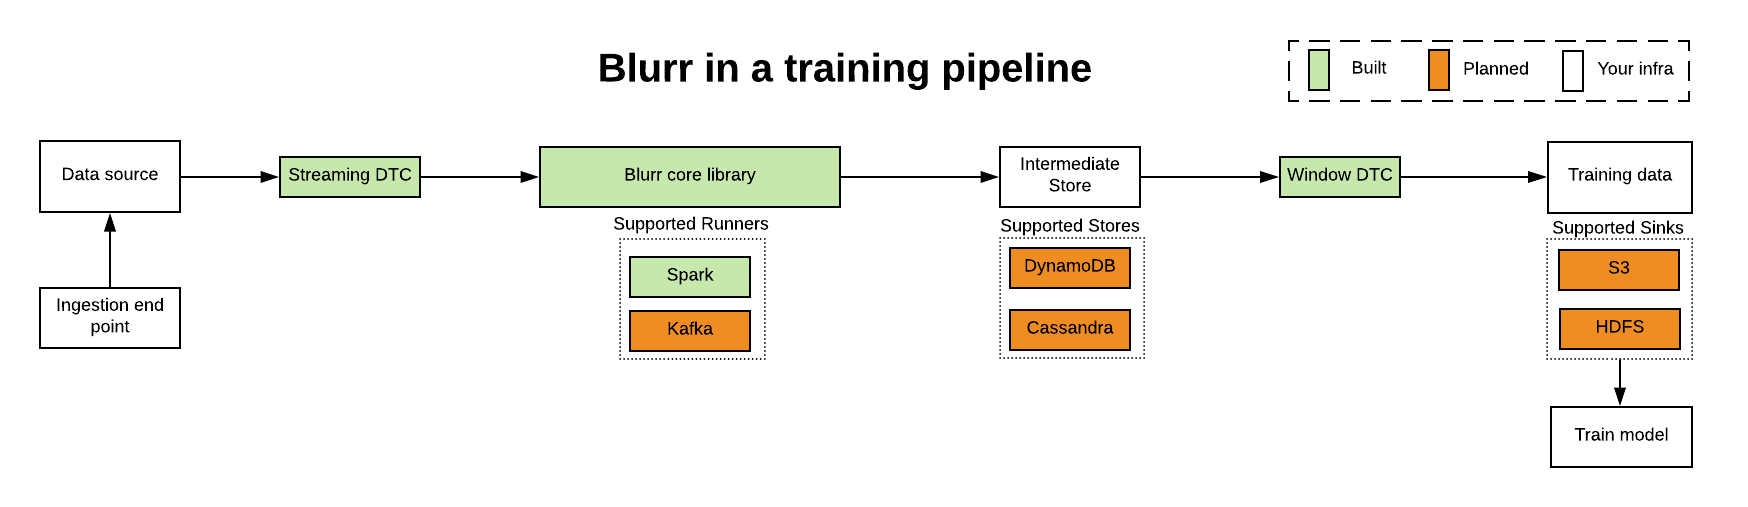
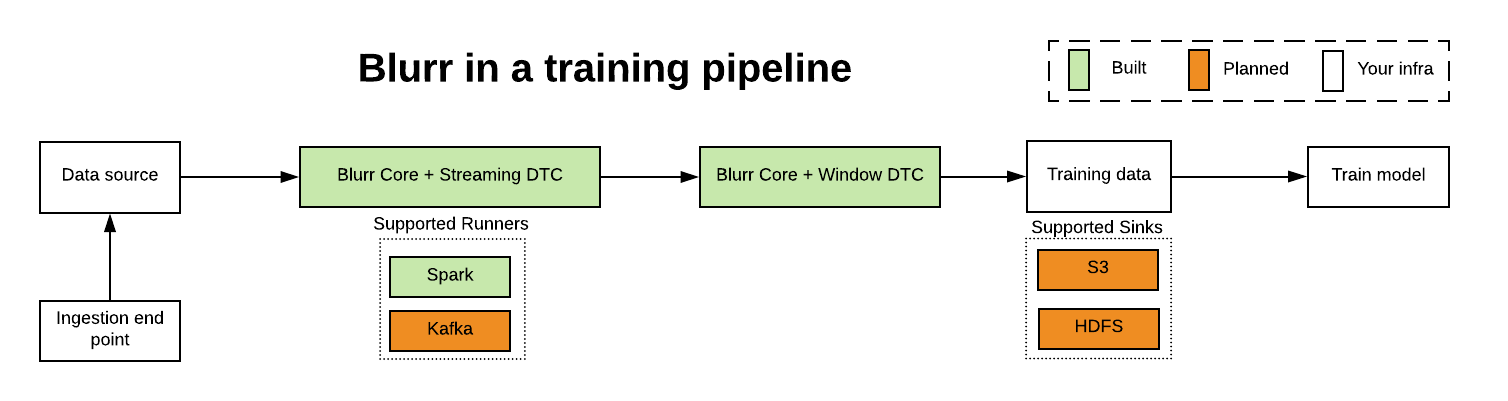
Addressed feedback on diagrams

diff --git a/README.md b/README.md
@@ -14,18 +14,15 @@ The DTC is a __data transform definition__ for structured data. The DTC encapsul
 
 ![Blurr Training](docs/images/blurr-in-training.png)
 
-This looks like any other ML training pipeline. At this point, Blurr doesn't do anything special that you cannot do with Spark, for instance. However, Blurr shines when this training pipeline needs to be turned into an online scoring pipeline.
+This looks like any other ETL pipeline. At this point, Blurr doesn't do anything special that you cannot do with Spark, for instance. Blurr shines when an offline model pipeline needs to be turned into an online scoring pipeline. 
 
 ![Blurr Production](docs/images/blurr-in-prod.png)
 
 ## Blurr is MLOps
 
-Blurr is a collection of components built for MLOps, the Blurr core library is one of them. **Blurr core ⊆ Blurr**
+Blurr is a collection of components built for MLOps, the Blurr Core library is one of them. **Blurr Core ⊆ Blurr**
 
-
->We believe in a world where everyone is a data engineer. Or a data scientist. Or an ML engineer. The lines are blurred (*cough*). Just like development and operations became DevOps over time
-
->--- Blurr authors
+>We believe in a world where everyone is a data engineer. Or a data scientist. Or an ML engineer. The lines are blurred (*cough*). Just like development and operations became DevOps over time   -- Blurr authors
 
 We see a future where MLOps means teams putting together various technologies to suit their needs. For production ML applications, the __speed of experimentation__ and __iterations__ is the difference between success and failure. The __DTC helps teams iterate on features faster__. The vision for Blurr is to build MLOps components to help ML teams experiment at high speed.
 
@@ -95,5 +92,5 @@ Blurr is currently in Developer Preview. __Stay in touch!__: Star this project o
 - ~~Support for custom functions and other python libraries in the DTC~~
 - ~~Spark runner~~
 - ~~S3 support for data sink~~
-- Add DynamoDB as a Store
+- DynamoDB as an Intermediate Store
 - Features server
